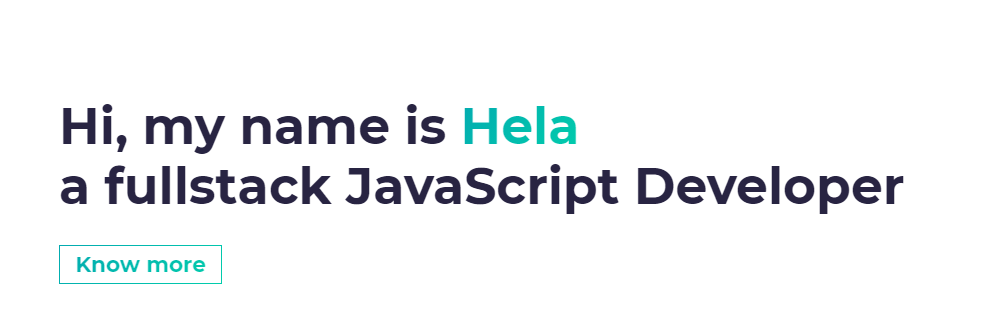
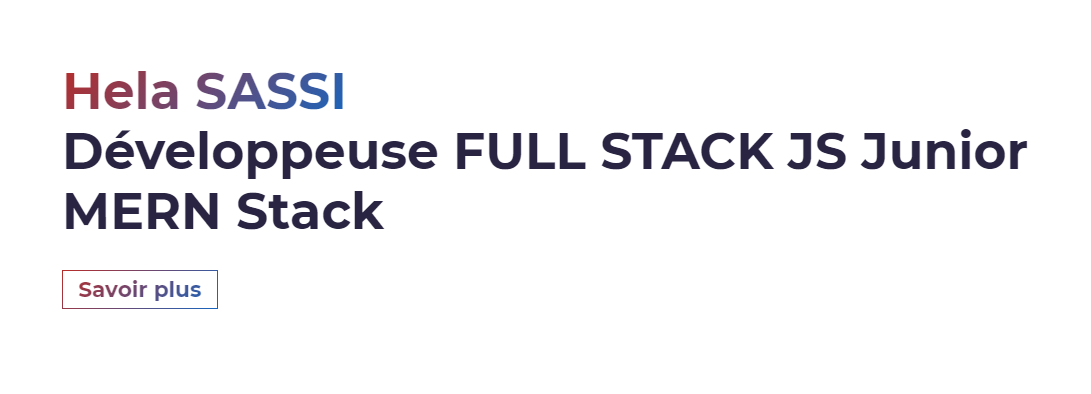
Update my portfolio

Changed region(s): [[0.0624, 0.1786, 0.9678, 0.6548], [0.0624, 0.6845, 0.2185, 0.8333]]

diff --git a/src/mock/data.js b/src/mock/data.js
@@ -11,7 +11,7 @@ export const headData = {
 export const heroData = {
   //title: '', // Hello, my name is
   name: 'Hela SASSI',
-  subtitle: ' Développeuse FULL STACK JS Junior',
+  subtitle: ' Développeuse FULL STACK JS Junior MERN Stack',
   cta: 'Savoir plus', // Know more
 };
 
@@ -19,13 +19,13 @@ export const heroData = {
 export const aboutData = {
   img: 'Pic-Hela Sassi.jpg',
   paragraphOne:
-    "J'ai suivi la formation FullStack JS chez Go My Code pour renforcer les compétences nécessaires pour entamer une carrière de développeur web. ",
+    "Récemment, j'ai suivi la formation FullStack JS chez Go My Code pour renforcer les compétences nécessaires pour entamer une carrière de développeur web. ",
   paragraphTwo:
-    "ce que j'apprécie dans le domaine de développement web le MOMENT de satisfaction que j'ai eu après avoir créé des sites web ergonomiquement beaux",
+    "Je pense que ce qui est important pour moi lors de la création d'un site web c’est que le design soit travaillé et que le site soit agréable et de navigation très simple.",
   paragraphThree:
-    "j'admire les merveilles d'un coucher de soleil , mon âme se répand en adoration du créateur donc dans mon portofolio j'ai fait appel à ce magnifique couleur evening sunshine",
+    "J'admire les merveilles d'un coucher de soleil , mon âme se répand en adoration du créateur. C'est ce qui m'a fait utiliser cette magnifique couleur",
 
-  resume: 'https://www.resumemaker.online/es.php', // if no resume, the button will not show up
+  resume: 'https://drive.google.com/file/d/1IVhbP3Xs2KH5bEsmlQQ2wexoY2MihOq8/view?usp=sharing', // if no resume, the button will not show up
 };
 
 // PROJECTS DATA
@@ -34,9 +34,10 @@ export const projectsData = [
     id: nanoid(),
     img: 'project1.PNG',
     title: 'Tunisie Recyclage',
-    info: "Projet final pour l'obtention du certificat GoMyCode",
+    info: "Projet final pour l'obtention du certificat GoMyCode.",
     info2:
-      'Un boutique en ligne de produits éco-responsable, pour réduire le plastique de sa vie quotidienne, avec un service de payement STRIPE',
+      'Un boutique en ligne de produits éco-responsable, pour réduire le plastique de sa vie quotidienne, avec un service de payement STRIPE.',
+    info3: 'Les technologies utilisées : React , Node JS, MongoDB.',
     url: 'https://tunisierecyclage.herokuapp.com/',
     repo: 'https://github.com/SassiHela/Final-project-e-commerce', // if no repo, the button will not show up
   },
@@ -46,8 +47,9 @@ export const projectsData = [
     title: 'Portfolio',
     info: '',
     info2: '',
+    info3: 'Les technologies utilisées : React ,Gatsby.',
     url: '',
-    repo: 'https://github.com/cobidev/react-simplefolio', // if no repo, the button will not show up
+    repo: 'https://github.com/SassiHela/MyPortfolio', // if no repo, the button will not show up
   },
   // {
   //   id: nanoid(),

diff --git a/src/components/About/About.jsx b/src/components/About/About.jsx
@@ -37,16 +37,19 @@ const About = () => {
           <Col md={6} sm={12}>
             <Fade left={isDesktop} bottom={isMobile} duration={1000} delay={1000} distance="30px">
               <div className="about-wrapper__info">
+                <p className="about-wrapper__info-text">{paragraphOne}</p>
+                <p className="about-wrapper__info-text">{paragraphTwo} </p>
                 <p className="about-wrapper__info-text">
-                  {paragraphOne ||
-                    'Lorem ipsum dolor sit, amet consectetur adipisicing elit. Excepturi neque, ipsa animi maiores repellendu distinctioaperiam earum dolor voluptatum consequatur blanditiis inventore debitis fuga numquam voluptate architecto itaque molestiae.'}
-                </p>
-                <p className="about-wrapper__info-text">
-                  {paragraphTwo ||
-                    'Lorem ipsum dolor sit, amet consectetur adipisicing elit. Excepturi neque, ipsa animi maiores repellendu distinctioaperiam earum dolor voluptatum consequatur blanditiis inventore debitis fuga numquam voluptate architecto itaque molestiae.'}
-                </p>
-                <p className="about-wrapper__info-text">
-                  {paragraphThree || 'Lorem ipsum dolor sit, amet consectetur adipisicing elit.'}
+                  {paragraphThree}{' '}
+                  <a
+                    target="_blank"
+                    href="https://uigradients.com/#EveningSunshine"
+                    rel="noopener noreferrer"
+                    className="href-color"
+                  >
+                    evening sunshine
+                  </a>
+                  .
                 </p>
                 {resume && (
                   <span className="d-flex mt-3">
@@ -56,7 +59,7 @@ const About = () => {
                       className="cta-btn cta-btn--resume"
                       href={resume}
                     >
-                      Resume
+                      Curriculum Vitae
                     </a>
                   </span>
                 )}

diff --git a/src/components/Projects/Projects.jsx b/src/components/Projects/Projects.jsx
@@ -28,7 +28,7 @@ const Projects = () => {
         <div className="project-wrapper">
           <Title title="Projets" />
           {projects.map((project) => {
-            const { title, info, info2, url, repo, img, id } = project;
+            const { title, info, info2, info3, url, repo, img, id } = project;
 
             return (
               <Row key={id}>
@@ -43,10 +43,9 @@ const Projects = () => {
                     <div className="project-wrapper__text">
                       <h3 className="project-wrapper__text-title">{title || 'Project Title'}</h3>
                       <div>
-                        <p>
-                          {info}
-                        </p>
-                        <p className="mb-4">{info2 || ''}</p>
+                        <p className="about-wrapper__info-text">{info}</p>
+                        <p className="mb-4 about-wrapper__info-text">{info2 || ''}</p>
+                        <p className="mb-4 about-wrapper__info-text">{info3 || ''}</p>
                       </div>
                       <a
                         target="_blank"
@@ -64,7 +63,7 @@ const Projects = () => {
                           className="cta-btn text-color-main"
                           href={repo}
                         >
-                           Code Source
+                          Code Source
                         </a>
                       )}
                     </div>

diff --git a/src/components/Hero/Hero.jsx b/src/components/Hero/Hero.jsx
@@ -26,18 +26,17 @@ const Header = () => {
       <Container>
         <Fade left={isDesktop} bottom={isMobile} duration={1000} delay={500} distance="30px">
           <h1 className="hero-title">
-            {/* {title || 'Hi, my name is'}{' '} */}
-            {title }{' '}
-            <span className="text-color-main">{name || 'Your Name'}</span>
+            {title} <span className="text-color-main">{name}</span>
             <br />
-            {subtitle || "I'm the Unknown Developer."}
+            {subtitle}
+            <br />
           </h1>
         </Fade>
         <Fade left={isDesktop} bottom={isMobile} duration={1000} delay={1000} distance="30px">
           <p className="hero-cta">
             <span className="cta-btn cta-btn--hero">
               <Link to="about" smooth duration={1000}>
-                {cta || 'Know more'}
+                {cta}
               </Link>
             </span>
           </p>

diff --git a/src/components/Contact/Contact.jsx b/src/components/Contact/Contact.jsx
@@ -14,16 +14,14 @@ const Contact = () => {
         <Title title="Contact" />
         <Fade bottom duration={1000} delay={800} distance="30px">
           <div className="contact-wrapper">
-            <p className="contact-wrapper__text">
-              {cta || 'Would you like to work with me? Awesome!'}
-            </p>
+            <p className="contact-wrapper__text">{cta}</p>
             <a
               // target="_blank"
               rel="noopener noreferrer"
               className="cta-btn cta-btn--resume"
               href={email ? `mailto:${email}` : 'https://github.com/cobidev/react-simplefolio'}
             >
-              {btn || "Let's Talk"}
+              {btn}
             </a>
           </div>
         </Fade>

diff --git a/src/style/abstracts/_helpers.scss b/src/style/abstracts/_helpers.scss
@@ -7,3 +7,11 @@
 .load-hidden {
   visibility: hidden;
 }
+
+.about-wrapper__info-text {
+  text-align: justify !important;
+}
+.href-color:hover {
+  color: #fff;
+  text-decoration: underline;
+}
